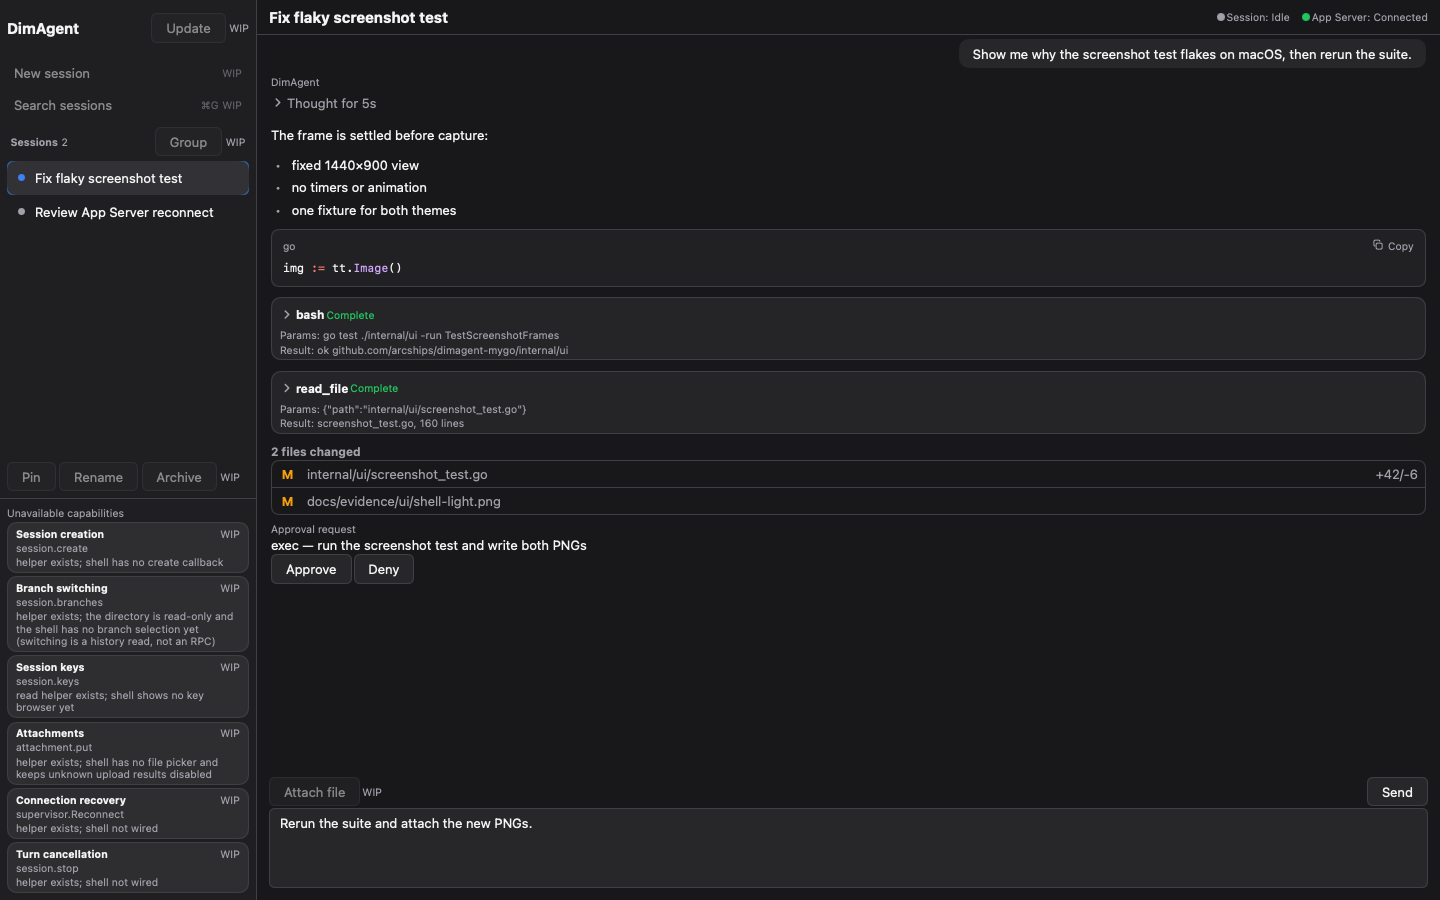
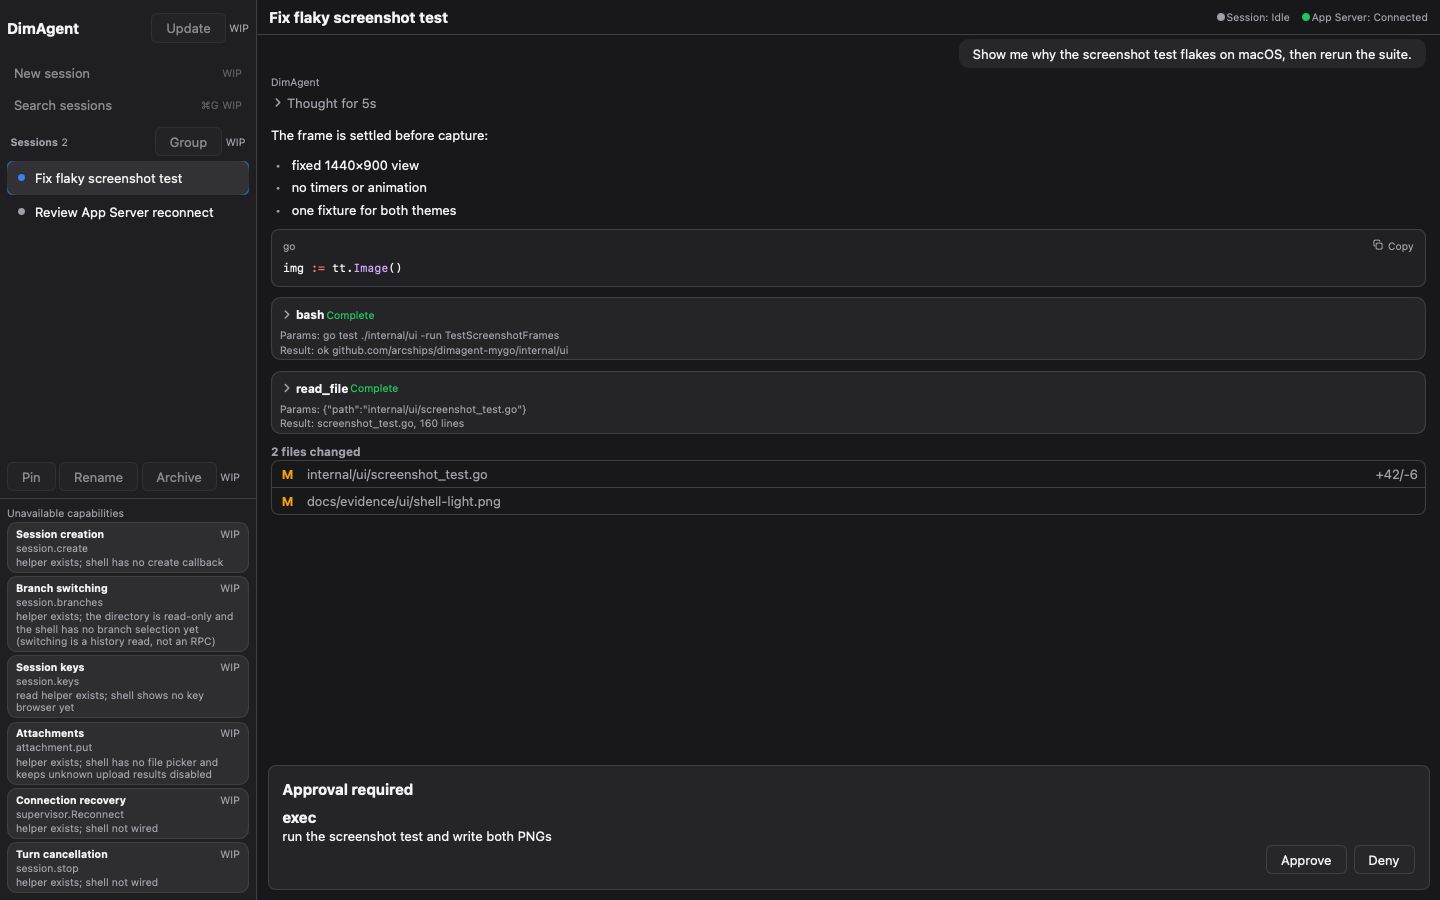
feat(ui): move pending approvals into the composer slot

diff --git a/internal/ui/approval_test.go b/internal/ui/approval_test.go
@@ -15,7 +15,8 @@ type approvalCall struct {
 }
 
 // approvalFixture is the shell's placeholder state with one pending approval
-// row that carries the App Server's request identity.
+// that carries the App Server's request identity. A pending approval takes the
+// composer's slot, so the row count matters: the panel is not a timeline row.
 func approvalFixture() *State {
 	s := fixture()
 	s.Messages = append(s.Messages, Message{
@@ -27,11 +28,10 @@ func approvalFixture() *State {
 	return s
 }
 
-// TestApprovalRowSendsOneDecision checks the wired approval row: both decisions
-// are real, available buttons, and each click sends exactly one decision with
-// the row's branch and request identity. The row itself is not resolved
-// locally; only a later session projection frame may remove it.
-func TestApprovalRowSendsOneDecision(t *testing.T) {
+// TestApprovalPanelSendsOneDecision checks the wired panel: both decisions are
+// real, available buttons, each click sends exactly one decision with the
+// request's branch and id, and the request is not resolved locally.
+func TestApprovalPanelThroughShellSendsOneDecision(t *testing.T) {
 	s := approvalFixture()
 	var got []approvalCall
 	s.OnApproval = func(branchID, requestID string, decision ApprovalDecision) {
@@ -45,10 +45,10 @@ func TestApprovalRowSendsOneDecision(t *testing.T) {
 			t.Fatalf("%q is not exposed as a button, texts %q", label, tt.Texts())
 		}
 		if info.Disabled {
-			t.Errorf("%q is disabled on a wired approval row", label)
+			t.Errorf("%q is disabled on a wired approval panel", label)
 		}
 		if !info.Focusable {
-			t.Errorf("%q is not reachable on a wired approval row", label)
+			t.Errorf("%q is not reachable on a wired approval panel", label)
 		}
 		if strings.Contains(info.Description, reasonApproval) {
 			t.Errorf("%q still describes the WIP gap: %q", label, info.Description)
@@ -58,32 +58,33 @@ func TestApprovalRowSendsOneDecision(t *testing.T) {
 	if err := tt.Click("Approve"); err != nil {
 		t.Fatal(err)
 	}
-	if len(got) != 1 || got[0] != (approvalCall{branchID: "main", requestID: "req-1", decision: ApprovalAllow}) {
-		t.Fatalf("Approve sent %#v, want one allow for main/req-1", got)
+	if len(got) != 1 || got[0].decision != ApprovalAllow {
+		t.Fatalf("approve sent %+v, want one allow", got)
 	}
-
+	if got[0].branchID != "main" || got[0].requestID != "req-1" {
+		t.Fatalf("approve identity = %+v, want main/req-1", got[0])
+	}
 	if err := tt.Click("Deny"); err != nil {
 		t.Fatal(err)
 	}
-	if len(got) != 2 || got[1] != (approvalCall{branchID: "main", requestID: "req-1", decision: ApprovalDeny}) {
-		t.Fatalf("Deny sent %#v, want one deny after the allow", got)
+	if len(got) != 2 || got[1].decision != ApprovalDeny {
+		t.Fatalf("deny sent %+v, want a second deny", got)
 	}
-
-	if len(s.Messages) != 3 || s.Messages[2].Approval == nil {
-		t.Fatalf("the shell resolved the approval row locally: %#v", s.Messages)
-	}
-	if a, ok := tt.AccessByRole(ui.RoleAlert, ""); ok {
-		t.Errorf("an accepted click raised an alert: %#v", a)
+	if len(s.Messages) != 3 {
+		t.Fatalf("%d rows after decisions, want the request kept until a projection frame removes it", len(s.Messages))
 	}
 }
 
-// TestApprovalRowStaysWIPWithoutCallback checks that an approval row in a
-// fixture without OnApproval keeps both decisions visible, dimmed, unreachable
-// as actions and explained: a click cannot report a decision nobody sent.
-func TestApprovalRowStaysWIPWithoutCallback(t *testing.T) {
+// TestApprovalPanelWithoutCallbackStaysWIP checks that a pending request with no
+// wired callback keeps both decisions visible, dimmed and explained, and that a
+// click reports nothing.
+func TestApprovalPanelWithoutCallbackStaysWIP(t *testing.T) {
 	s := approvalFixture()
 	tt := ui.NewTester(s.View, 900, 600)
 
+	if !tt.HasText("Approval required") {
+		t.Fatalf("approval panel is not drawn, texts %q", tt.Texts())
+	}
 	for _, label := range []string{"Approve", "Deny"} {
 		info, ok := tt.AccessByRole(ui.RoleButton, label)
 		if !ok {
@@ -92,64 +93,38 @@ func TestApprovalRowStaysWIPWithoutCallback(t *testing.T) {
 		if !info.Disabled {
 			t.Errorf("%q is available without an approval callback", label)
 		}
-		if !info.Focusable {
-			t.Errorf("%q is unreachable, so its reason is never read", label)
-		}
 		if !strings.Contains(info.Description, "approval.respond") {
 			t.Errorf("%q description %q does not name approval.respond", label, info.Description)
 		}
 		if !strings.Contains(info.Description, wipBadge) {
 			t.Errorf("%q description %q does not include the visible %q badge", label, info.Description, wipBadge)
 		}
-	}
-	if err := tt.Click("Approve"); err != nil {
-		t.Fatal(err)
-	}
-	if err := tt.Click("Deny"); err != nil {
-		t.Fatal(err)
+		if err := tt.Click(label); err != nil {
+			t.Fatalf("click %q: %v", label, err)
+		}
 	}
 	if len(s.Messages) != 3 {
-		t.Fatalf("%d rows after clicking unavailable decisions, want 3", len(s.Messages))
+		t.Fatalf("%d rows after unavailable decisions, want 3", len(s.Messages))
 	}
 }
 
-// TestApprovalRowWithoutRequestIDStaysWIP checks that a row without the App
-// Server's request identity keeps the decisions unavailable even when the
-// window has a callback: there is no approval.respond request to address.
-func TestApprovalRowWithoutRequestIDStaysWIP(t *testing.T) {
-	cases := []struct {
-		name     string
-		approval *Approval
-	}{
-		{"missing approval", nil},
-		{"empty request id", &Approval{BranchID: "main"}},
-	}
-	for _, tc := range cases {
-		t.Run(tc.name, func(t *testing.T) {
-			s := fixture()
-			s.Messages = append(s.Messages, Message{ID: "m3", Author: AuthorApproval, Content: "Run it?", Approval: tc.approval})
-			calls := 0
-			s.OnApproval = func(string, string, ApprovalDecision) { calls++ }
-			tt := ui.NewTester(s.View, 900, 600)
+// TestApprovalWithoutRequestIDTakesNoSlot checks that a request without the App
+// Server's identity neither takes the composer's slot nor offers a decision
+// nobody can address.
+func TestApprovalWithoutRequestIDTakesNoSlot(t *testing.T) {
+	s := fixture()
+	s.Messages = append(s.Messages, Message{ID: "m3", Author: AuthorApproval, Content: "Run it?"})
+	calls := 0
+	s.OnApproval = func(string, string, ApprovalDecision) { calls++ }
+	tt := ui.NewTester(s.View, 900, 600)
 
-			for _, label := range []string{"Approve", "Deny"} {
-				info, ok := tt.AccessByRole(ui.RoleButton, label)
-				if !ok {
-					t.Fatalf("%q is not exposed as a button, texts %q", label, tt.Texts())
-				}
-				if !info.Disabled {
-					t.Errorf("%q is available without a request identity", label)
-				}
-				if !strings.Contains(info.Description, "approval.respond") {
-					t.Errorf("%q description %q does not name approval.respond", label, info.Description)
-				}
-				if err := tt.Click(label); err != nil {
-					t.Fatalf("click %q: %v", label, err)
-				}
-			}
-			if calls != 0 {
-				t.Fatalf("a row without a request identity sent %d decisions", calls)
-			}
-		})
+	if tt.HasText("Approval required") {
+		t.Errorf("an unaddressable request took the composer slot, texts %q", tt.Texts())
+	}
+	if _, ok := tt.AccessByRole(ui.RoleButton, "Approve"); ok {
+		t.Error("an unaddressable request still offers Approve")
+	}
+	if calls != 0 {
+		t.Fatalf("an unaddressable request sent %d decisions", calls)
 	}
 }

diff --git a/internal/ui/shell.go b/internal/ui/shell.go
@@ -276,7 +276,15 @@ func (s *State) View(c *ui.Context) {
 		ui.Column(c).FillHeight().Children(func() {
 			renderHeader(c, k, s.headerView(), a)
 			renderTimeline(c, k, s.timelineView(), a)
-			renderComposer(c, k, composer, a)
+			// A pending approval takes the composer's slot: the user answers the
+			// request before typing again, as the spec's composer replacement does.
+			// The request set comes from the rows the projection produced, never from
+			// a click.
+			if pending := s.pendingApprovals(); len(pending) > 0 {
+				renderApprovalPanel(c, k, ApprovalView{Pending: pending}, a)
+			} else {
+				renderComposer(c, k, composer, a)
+			}
 		})
 	}).SplitReset(k.sidebarW).Fill()
 	if c.Shortcut(ComposerShortcutMods, ComposerShortcutKey) {
@@ -312,6 +320,27 @@ func (s *State) sidebarView() SidebarView {
 	}
 }
 
+// pendingApprovals collects the approval requests the current rows still show,
+// keyed by request id so a duplicated row cannot offer the same decision twice.
+// It copies from the rows the projection produced; a click never adds or removes
+// an entry here.
+func (s *State) pendingApprovals() []Approval {
+	var pending []Approval
+	seen := map[string]bool{}
+	for _, m := range s.Messages {
+		if m.Author != AuthorApproval || m.Approval == nil {
+			continue
+		}
+		approval := *m.Approval
+		if approval.RequestID == "" || seen[approval.RequestID] {
+			continue
+		}
+		seen[approval.RequestID] = true
+		pending = append(pending, approval)
+	}
+	return pending
+}
+
 // headerView copies the supervisor's report, the terminal close and the
 // window-owned status into the toolbar's view.
 func (s *State) headerView() HeaderView {
@@ -334,10 +363,18 @@ func (s *State) headerView() HeaderView {
 
 // timelineView copies the rows and the window's loading and close facts into
 // the timeline's view, with pointers to the list, fold and Markdown state the
-// region keeps across frames.
+// region keeps across frames. Pending approvals are not rows: they take the
+// composer's slot, so they are left out here and read by pendingApprovals.
 func (s *State) timelineView() TimelineView {
+	rows := make([]Message, 0, len(s.Messages))
+	for _, m := range s.Messages {
+		if m.Author == AuthorApproval {
+			continue
+		}
+		rows = append(rows, m)
+	}
 	return TimelineView{
-		Messages: s.Messages,
+		Messages: rows,
 		Loading:  s.ConversationLoading,
 		Closed:   s.SessionClosed,
 		list:     &s.conversation,

diff --git a/internal/ui/wip_test.go b/internal/ui/wip_test.go
@@ -55,20 +55,21 @@ func TestWIPEntriesAreVisibleDisabledAndExplainThemselves(t *testing.T) {
 	}
 }
 
-// TestApprovalWIPEntries checks that an approval row keeps the two decisions,
-// visible and unavailable, with the reason approval.respond is missing. The
-// row itself is view state; the request and its decision stay the App Server's.
+// TestApprovalWIPEntries checks that a pending approval keeps the two
+// decisions, visible and unavailable, with the reason approval.respond is
+// missing. The request and its decision stay the App Server's.
 func TestApprovalWIPEntries(t *testing.T) {
 	s := fixture()
 	s.Messages = append(s.Messages, Message{
-		ID:      "m3",
-		Author:  AuthorApproval,
-		Content: "Run the deployment?",
+		ID:       "m3",
+		Author:   AuthorApproval,
+		Content:  "Run the deployment?",
+		Approval: &Approval{BranchID: "main", RequestID: "req-1", Call: "exec"},
 	})
 	tt := ui.NewTester(s.View, 900, 600)
 
-	if !tt.HasText("Approval request") || !tt.HasText("Run the deployment?") {
-		t.Fatalf("approval row is not drawn, texts %q", tt.Texts())
+	if !tt.HasText("Approval required") || !tt.HasText("exec") {
+		t.Fatalf("approval panel is not drawn, texts %q", tt.Texts())
 	}
 	for _, label := range []string{"Approve", "Deny"} {
 		info, ok := tt.AccessByRole(ui.RoleButton, label)
@@ -98,10 +99,9 @@ func TestApprovalWIPEntries(t *testing.T) {
 // perform.
 func TestWIPEntriesDoNotPretendSuccess(t *testing.T) {
 	s := fixture()
-	s.Messages = append(s.Messages, Message{ID: "m3", Author: AuthorApproval, Content: "Run it?"})
 	tt := ui.NewTester(s.View, 900, 600)
 
-	for _, label := range []string{"New session", "Reconnect", "Attach file", "Approve", "Deny"} {
+	for _, label := range []string{"New session", "Reconnect", "Attach file"} {
 		if err := tt.Click(label); err != nil {
 			t.Fatalf("click %q: %v", label, err)
 		}
@@ -113,8 +113,8 @@ func TestWIPEntriesDoNotPretendSuccess(t *testing.T) {
 	if s.Draft != "" {
 		t.Errorf("draft %q after clicking WIP entries, want empty", s.Draft)
 	}
-	if len(s.Messages) != 3 {
-		t.Errorf("%d rows after clicking WIP entries, want 3", len(s.Messages))
+	if len(s.Messages) != 2 {
+		t.Errorf("%d rows after clicking WIP entries, want the fixture's 2", len(s.Messages))
 	}
 	if s.Connection != ConnUnknown || s.ConnectionError != "" {
 		t.Errorf("connection %v %q after clicking WIP entries, want it untouched",

diff --git a/internal/ui/conversation.go b/internal/ui/conversation.go
@@ -26,17 +26,6 @@ func timeline(c *ui.Context, k tokens, v TimelineView, a Actions) {
 	}
 }
 
-// pendingRequests is the approval row's pending list: the transient projection
-// gives one request per row today, and a row without one keeps its decisions
-// visible, disabled and explained instead of sending a decision nobody can
-// address.
-func pendingRequests(request *Approval) []Approval {
-	if request == nil {
-		return nil
-	}
-	return []Approval{*request}
-}
-
 // loadingConversation is what shows while history is still coming. The row is a
 // busy status region, so assistive technology waits for the rows rather than
 // reading the placeholder, and reads the one label of the work.
@@ -62,9 +51,10 @@ func emptyConversation(c *ui.Context, k tokens) {
 
 // messageRow builds one row by its author, the way docs/ui-layout-spec.md §4
 // splits dim-electron's timeline: a user bubble, an assistant turn with its
-// blocks in order, a tool card, an approval row with its decisions, or an
-// error/retry notice. A row's own text stands in for an unknown author, so a
-// caller cannot lose text to a row type the shell does not know.
+// blocks in order, a tool card, or an error/retry notice. A pending approval is
+// not a row: it takes the composer's slot (renderApprovalPanel). A row's own text
+// stands in for an unknown author, so a caller cannot lose text to a row type the
+// shell does not know.
 func messageRow(c *ui.Context, k tokens, v TimelineView, a Actions, m Message) {
 	switch m.Author {
 	case AuthorUser:
@@ -73,8 +63,6 @@ func messageRow(c *ui.Context, k tokens, v TimelineView, a Actions, m Message) {
 		assistantRow(c, k, v, m)
 	case AuthorTool:
 		toolRow(c, k, v.folds, m)
-	case AuthorApproval:
-		renderApproval(c, k, ApprovalView{Text: m.Content, Pending: pendingRequests(m.Approval)}, a)
 	case AuthorError:
 		errorRow(c, k, m)
 	case AuthorRetry:

diff --git a/internal/ui/protocols.go b/internal/ui/protocols.go
@@ -297,11 +297,11 @@ func renderTimeline(c *ui.Context, k tokens, v TimelineView, a Actions) {
 	timeline(c, k, v, a)
 }
 
-// renderApproval draws one approval row: its text and one pair of decisions per
-// pending request. It calls Actions.OnApproval, and only for a request that
-// carries the App Server's identity.
+// renderApproval draws the pending-approval panel that takes the composer's
+// slot. It calls Actions.OnApproval, and only for a request that carries the
+// App Server's identity.
 func renderApproval(c *ui.Context, k tokens, v ApprovalView, a Actions) {
-	approval(c, k, v, a)
+	renderApprovalPanel(c, k, v, a)
 }
 
 // renderComposer draws the attachment entry, the Send entry and the draft
